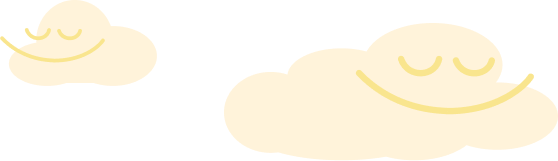
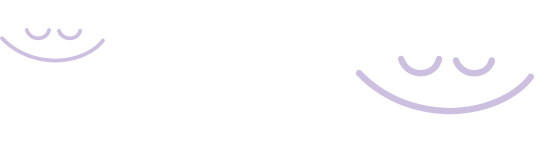
feat: make hero section finished and add animations

diff --git a/components/hero-section.tsx b/components/hero-section.tsx
@@ -6,12 +6,13 @@ import { useTranslations } from "next-intl";
 import { Button } from "./ui/button";
 import { CopyButton } from "./copy-button";
 
-import VortexAsset from '@/public/vortex.png';
+import VortexAsset from '@/public/vortex-purple.png';
 import TonCoinGroup from '@/public/toncoin-group.png';
 import VasilencoAsset from '@/public/vasilenco.png';
+import VasilcoinTokenAsset from '@/public/brand/vasilcoin-token.png';
 import CloudGroup from '@/public/clouds-group.png';
 import VasilcoinText from '@/public/vasilcoin-text.png';
-import DogAsset from '@/public/dog.png';
+import RedCarAsset from '@/public/red-car.png';
 import { BBCodeRenderer } from "@/components/ui/code-renderer";
 import { Section } from "./ui/section";
 import { Header } from "./header";
@@ -24,21 +25,25 @@ export function HeroSection() {
     return (
         <Section
             className="border-b-0 sm:border-b-0"
-            classNameInner="flex flex-col gap-3"
+            classNameInner="flex flex-col gap-3 min-h-[calc(100dvh-108px)] md:min-h-0"
         >
             <Header className="mt-8 mb-6 max-w-[1000px] mx-auto" />
             
-            <Image className="hidden md:block" {...CloudGroup} alt="Funny clouds" quality={100} />
-            <Image {...VasilcoinText} className="mx-auto h-[60px] w-[288px] md:mx-0 md:w-auto md:h-auto max-h-28 max-w-[520px]" alt="VASILCOIN" quality={100} />
-            <div className="hidden md:flex flex-col gap-4">
-                <p className="font-semibold text-3xl lg:text-5xl leading-[52px]">
+            <Image className="hidden animate-ping-pong md:block" {...CloudGroup} alt="Funny clouds" quality={100} />
+
+            <div className="inline-flex gap-3 items-center justify-center mt-3 md:justify-start">
+                <Image {...VasilcoinTokenAsset} className="aspect-square w-[50px]" alt="VASILCOIN" quality={100} />
+                <Image {...VasilcoinText} className="h-[60px] w-[288px] md:mx-0 md:w-auto md:h-auto max-h-28 max-w-[520px]" alt="VASILCOIN" quality={100} />
+            </div>
+            <div className="flex flex-col justify-center mt-4 md:gap-4 md:justify-start">
+                <p className="mx-auto font-semibold text-lg md:mx-0 md:text-3xl md:leading-[52px] lg:text-[36px]">
                     <BBCodeRenderer text={t('description')} />
                 </p>
             </div>
 
             <Button
                 variant={'outline'}
-                className="mx-auto w-[90%] py-7 text-[22px] mt-44 md:mt-12 md:mx-0 md:w-max md:py-8 md:px-10 lg:py-10 lg:text-[28px]"
+                className="absolute bottom-0 mx-auto w-[90%] py-7 text-[22px] md:static md:mt-12 md:mx-0 md:w-max md:py-8 md:px-10 lg:py-10 lg:text-[28px]"
             >
                 {t('join-community')}
             </Button>
@@ -62,24 +67,24 @@ function ImageGroup() {
     return (
         <div className="absolute w-full h-full -z-10 overflow-x-clip xl:overflow-visible left-0 md:mt-16">
             <Image
-                className="absolute min-w-[700px] md:w-[1070px] -top-[300px] -right-[250px] md:-top-[400px] md:-right-40"
+                className="absolute animate-rotate-counterclockwise min-w-[1000px] -bottom-[280px] -right-[350px] md:min-w-[1500px] md:-right-[700px] xl:-right-[500px]"
                 {...VortexAsset}
                 alt="Vortex.png"
             />
             <Image
-                className="absolute min-w-[604px] sm:w-[1036px] -bottom-10 md:bottom-0 -right-[200px] lg:-right-20"
+                className="absolute animate-slide-in-left bottom-[100px] left-[-100px] -rotate-[20deg] scale-x-[-1] min-w-[330px] max-w-[330px] md:hidden"
+                {...RedCarAsset}
+                alt="RedCar.png"
+            />
+            <Image
+                className="absolute animate-slide-in-right min-w-[500px] max-w-[500px] -right-[100px] -bottom-10 md:bottom-0 md:min-w-[1036px] md:max-w-[1036px] md:-right-[500px] xl:-right-[300px]"
                 {...VasilencoAsset}
                 alt="Vasilenco.png"
             />
             <Image
-                className=" absolute -z-10 -right-0 md:z-0 md:right-[50px] md:-top-[100px]"
+                className="saturate-150 animate-slide-in-right -hue-rotate-[5deg] absolute -right-[100px] bottom-[120px] min-w-[500px] max-w-[500px] md:min-w-[800px] md:max-w-[800px] md:bottom-[350px] md:-right-[350px] xl:-right-[150px]"
                 {...TonCoinGroup}
                 alt="TonCoinGroup.png"
-            />
-            <Image
-                className="absolute w-[170px] -left-5 top-[150px] md:w-[300px] md:top-[340px] md:left-[430px]"
-                {...DogAsset}
-                alt="DogAsset.png"
             />
         </div>
     );

diff --git a/tailwind.config.ts b/tailwind.config.ts
@@ -61,6 +61,40 @@ export default {
 				"dots-tiled": "url('/background/dots-tiled.png')",
 				"dots-tiled-2": "url('/background/dots-tiled-2.png')",
 			},
+			keyframes: {
+				"slide-in-left": {
+					"0%": { translate: "-200px", opacity: "0" },
+					"80%": { translate: "0", opacity: "1" },
+				},
+				"slide-in-right": {
+					"0%": { translate: "200px", opacity: "0" },
+					"80%": { translate: "0", opacity: "1" },
+				},
+				"rotate-clockwise": {
+					"0%": { transform: "rotate(0deg)" },
+					"100%": { transform: "rotate(360deg)" },
+				},
+				"rotate-counterclockwise": {
+					"0%": { transform: "rotate(0deg)" },
+					"100%": { transform: "rotate(-360deg)" },
+				},
+				pingPong: {
+					'0%, 100%': { transform: 'translateX(-10px)' },
+					'50%': { transform: 'translateX(10px)' },
+				},
+			},
+			animation: {
+				"slide-in-left": "slide-in-left 2s cubic-bezier(0.25, 1, 0.5, 1) forwards",
+				"slide-in-right": "slide-in-right 3s cubic-bezier(0.25, 1, 0.5, 1) forwards",
+				"rotate-clockwise": "rotate-clockwise 90s linear infinite",
+				"rotate-counterclockwise": "rotate-counterclockwise 90s linear infinite",
+				'ping-pong': 'pingPong 5s ease-in-out infinite',
+			},
+			duration: {
+				3000: "3000ms",
+				5000: "5000ms",
+				10000: "10000ms",
+			},
 		}
 	},
 	plugins: [require("tailwindcss-animate")],

diff --git a/components/header.tsx b/components/header.tsx
@@ -4,7 +4,6 @@
 import React, { useEffect, useState, useTransition } from "react";
 import { motion } from "framer-motion";
 import { cn, scrollToId } from "@/lib/utils";
-import Image from "next/image";
 import { CopyButton } from "./copy-button";
 import { useTranslations, useLocale } from "next-intl";
 import { useRouter, usePathname } from "next/navigation";
@@ -23,15 +22,8 @@ export function Header({ className }: { className?: string }) {
                 copyText="EQAPAM9qo9M6gZLMxknEwvLSjCv1H-QlyKxHRxM6kgXVovlf"
                 className="max-w-40 h-full sm:hidden"
             />
-
-            <Image
-                className="h-12 hidden sm:block"
-                src={'/logo.png'}
-                width={192}
-                height={47}
-                quality={100}
-                alt="logo"
-            />
+            {/* Dummy object. Thanks to designers */}
+            <div className="hidden sm:block w-[100px] h-full" />
             
             <div className="hidden sm:inline-flex gap-3">
                 <Button
